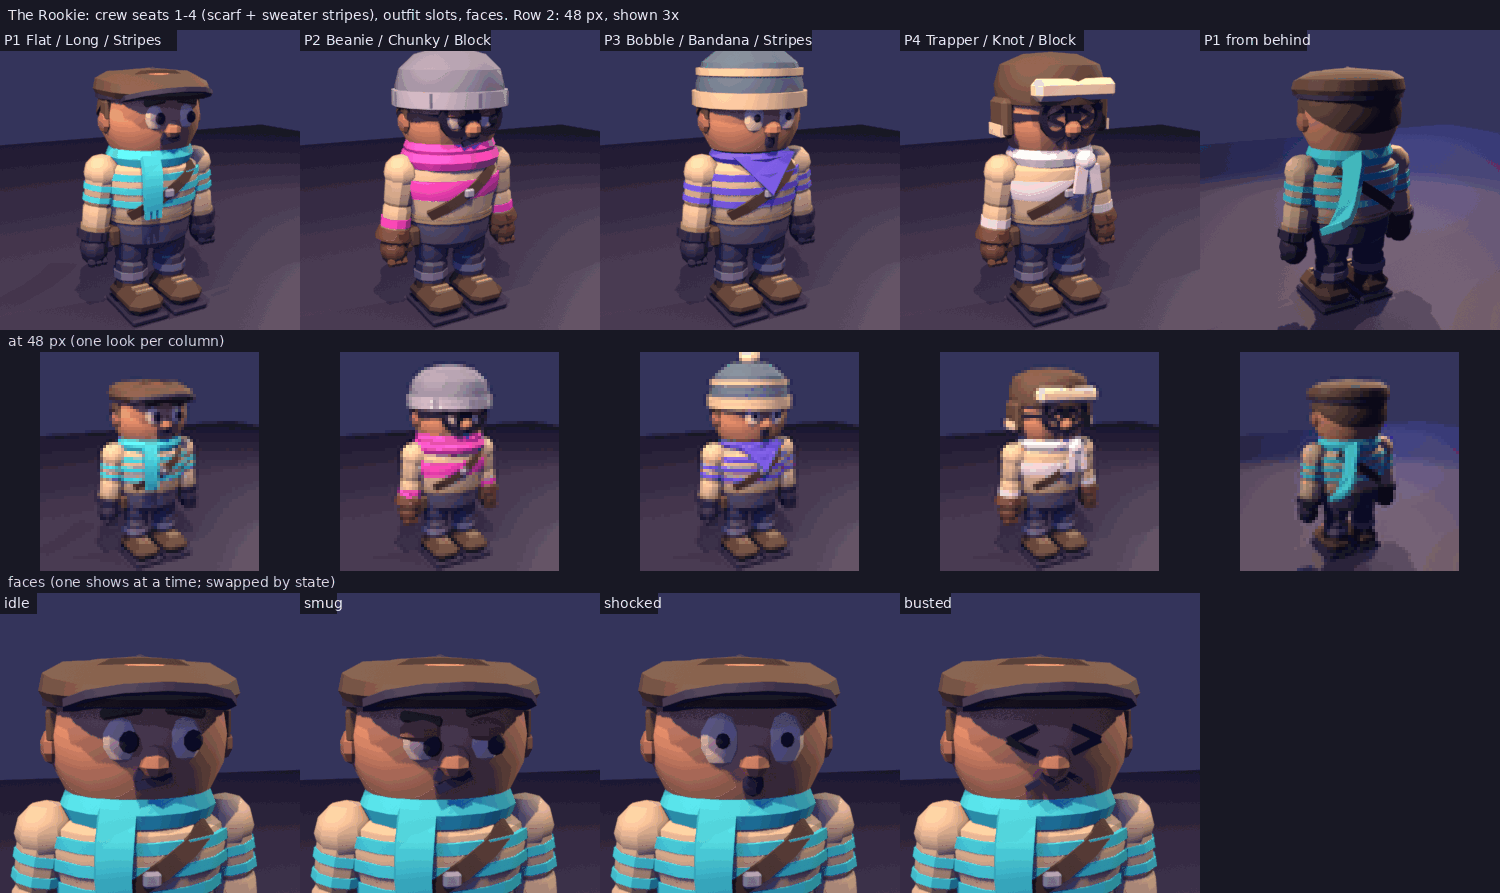
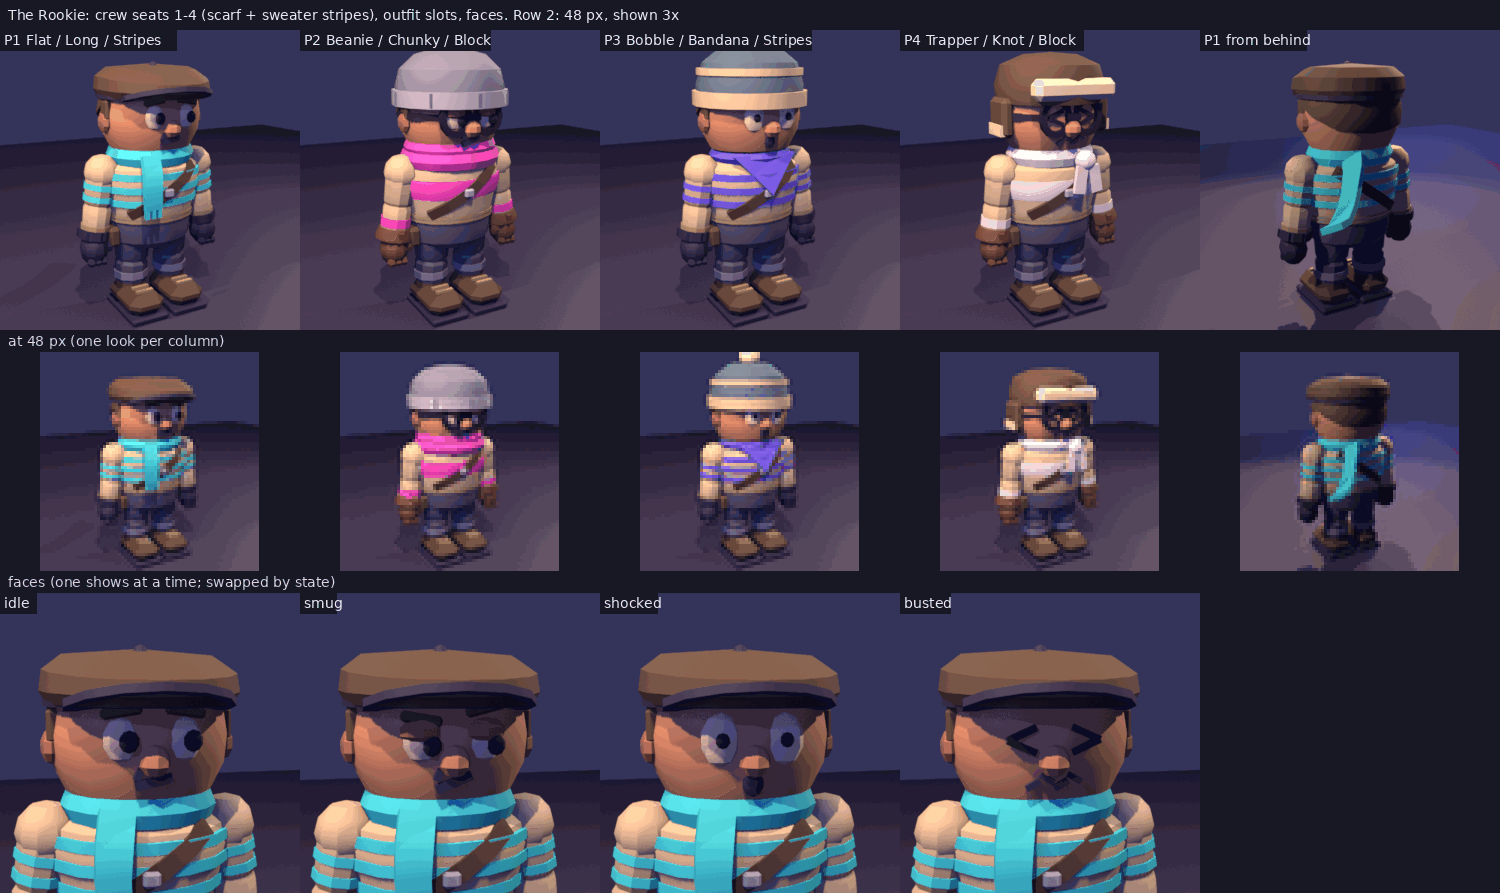
Docs: PROJECT_STATE, DATA.md outfit field, STYLE_BIBLE 12.1 the Rookie; outfit sheet re-rendered
Claude-Session: https://claude.ai/code/session_01QMSuPfsKra1qjqHBWxnEoR

diff --git a/PROJECT_STATE.md b/PROJECT_STATE.md
@@ -1,6 +1,6 @@
 # PROJECT_STATE
 
-_Last updated: 2026-11-12 (tech polish track)_
+_Last updated: 2026-11-13 (CH track: the Rookie)_
 
 ## Done (v0.1 prototype)
 - Rojo project, greybox bank level built from code (street, van, lobby, vault door, blue/red plates, laser grid, gold table, diamond pedestal).
@@ -282,3 +282,12 @@ _Last updated: 2026-11-12 (tech polish track)_
 
 ## 2026-11-12 (late): owner pivot, approved in full: docs/PLAN_FIRST_PERSON.md
 - Players become "the Rookie" (an original Steam-quality robber character, crew colour + outfit slots), not their Roblox avatar; clones are copies of your Rookie. First person by default with visible hands, look-to-interact and pick-up into the hands. A Phasmophobia / RV-There-Yet lobby (spawn in first person in the hideout, pick a van, SOLO or CREW, level on the job board, GO from the van). Northern lights in the sky. Also approved: move the L1 cash into the window's view, warm the Toy Shop walls. Waves A-D in the plan; the owner is asleep, so work non-stop.
+
+## 2026-11-13: the Rookie, the player character (PLAN_FIRST_PERSON "CH", wave A; CH track)
+- **Art** (`assets/blender/rookie.py`, all gates pass): an original chunky robber, 4.62 studs to the head top (Gus 6.5), big head, cream Breton sweater, dark trousers, chunky boots and gloves, side-eye. R15-compatible: 15 rigid parts `Rookie_<R15 name>`, each pivot at its R15 joint (manifest `joint`). Four kit groups uploaded with the kit uploader (Open Cloud Model, moderation Approved): **Rookie 82283617669885** (body + idle face, 3,632 tris), **Rookie_Faces 115892166045394** (smug, shocked, busted), **Rookie_Outfits 88500778373104** (cap x4 Flat/Beanie/Bobble/Trapper, scarf x4 Long/Chunky/Bandana/Knot, sweater x2 Stripes/Block, gloves x2 Knit/Leather cuffs, mask Eye; pivot = attach point, seat-checked on the body in the spec), **Rookie_Viewmodel 122428778963718** (first-person forearms + knit gloves). Crew pieces (scarf, stripes) and gloves use the Tint White cell (no atlas) and take MeshPart.Color at runtime. Renders: `docs/art/turntables/Rookie*.png` (gate sheets) and `docs/art/rookie_sheet.png` (`python3 tools/blender/rookie_sheet.py`: four crew colours and outfits, the back, **row 2 at 48 px**, the four faces). STYLE_BIBLE §12.1.
+- **Data:** `Shared/Heist/RookieData` (generated from the manifest by `python3 tools/rookie_data.py`; `--check` and the unit spec catch a stale one), `Shared/Heist/Outfit` (pure: defaults, unlocks by stars or trophy, `canWear`, `repair`, keys, pieces), `Config.Rookie` (slots, OUTFIT ids and unlock rules, glove colours, faces, portrait). Profile: additive `outfit` field (Schema, repaired on load); changed through the existing **`Data.Equip`** (an outfit slot + an outfit id, `Outfit.canWear`); published as the player attribute `Outfit`. No new remote. DATA.md updated.
+- **Every player is a Rookie** (`server/Heist/Rookie`, `server/Heist/Characters`): the kit meshes can't ride in the Rojo place file, so the server builds the R15 Rookie from the kit at runtime, sets it ONCE as `StarterPlayer.StarterCharacter` (never swapped per player: the vault warns runtime swaps cause spawn bugs), with `CharacterAutoLoads` off until then (init.server sets it first thing) and `LoadCharacterAppearance` off; it spawns everyone with `LoadCharacterAsync` (keeps the engine's R15 Animate, emotes, Health, camera, ownership: a manual `player.Character =` would lose the Animate insertion) and respawns after deaths. Each character is dressed on CharacterAdded in its outfit and crew colour (seat hue; HeistService calls `Characters.setSeat` from the garage push and heist start) and re-dressed live on an outfit change. A pre-service avatar character is respawned as a Rookie. No kit after 20 s: a block Rookie (same rig). Faces: bank -> smug, zap -> shocked, bust -> busted (HeistInstance face hook, cosmetic).
+- **ReplicatedStorage.CharacterKit** (for the FP track): `Rookie` (template), `Rookie_Viewmodel` (**LeftArm, RightArm**, anchored, no collision or shadow, each with `GripL` / `GripR` at the palm and an `Elbow` attachment at its pivot), `Pieces` (every Rookie kit piece).
+- **Clones are copies of your Rookie:** `Avatars.buildRookie` builds the template in the owner's outfit (kinematic AnimationConstraint joints, like 2026 avatar rigs), rebuilt when the outfit changes (EchoView retires a pool whose template changed). Joint gate, strip, CloneHealth, fill/Highlight, glow, pills, LOD and poses unchanged; `Rigs` tints only the crew pieces (the outfit keeps its colours), keeps hidden faces hidden and follows the pose with the face (`Config.Rookie.POSE_FACE`). Crew cards (Hud/Deck) show a **Rookie portrait** (ViewportFrame of your template's head and shoulders, `Common.portrait`) instead of `GetUserThumbnailAsync`; the Line-up already copies the live (Rookie) characters.
+- **Tests:** unit `HeistOutfit` (8: defaults, unlocks, canWear, repair, keys, pieces, RookieData vs manifest and the R15 rig). Engine (Saved v51, this track): `engine_smoke` **0 failures** (new section 10: CharacterKit published, viewmodel grips, template and StarterCharacter R15 with 15 joints and HipHeight 2, boots on the floor, a joining fake player's character dressed in outfit + seat-2 hue, welded pieces, one face); `clone_engine` **0 failures** (four Rookie outfits replace the three Roblox descriptions: outfit applied, gloves, one face, crew pieces in the owner hue with the cap untinted, plus every old check; the upload spike now animates the Rookie's Motor6D rig: hand 1.92 studs); `kit_engine` 0 failed (145 pieces); `client_engine` 46/0; `perf_engine` 1 failure = the known LightingStyle-at-boot assert (waits for World's `Technology` line). Local: unit 454, sim 225, compile, stylua, selene x2, pure, LihFolk scan 0, 4 rojo builds + place_check 0, clips, hud_layout 1,435/0, glyph, ui_kit 103/0, `build_asset.py --all` ALL GATES PASS.
+- **Open:** never seen in Studio or on a phone (the spawn path, the Avatar Joint Upgrade converting the StarterCharacter's Motor6Ds, walk feel with the short legs, the FP camera at the Rookie's eye height ~3.8, the portrait framing); the first-person arms show the default knit gloves only (no per-outfit viewmodel yet); no wardrobe UI yet (LB track: the lobby wardrobe calls `Data.Equip(slot, id)`); the scarf tail is static (no cloth); emotes from the Roblox emote wheel need a Studio check with `LoadCharacterAppearance` off; owner sign-off on the look (rookie_sheet.png).

diff --git a/docs/DATA.md b/docs/DATA.md
@@ -50,6 +50,7 @@ Never rename `STORE_NAME` or `KEY_PREFIX` after launch. `Keys.isWritable` makes 
 | `cosmetics.owned[id]`, `cosmetics.equipped[slot]` | `true`, id | Slots: `cloneStyle`, `cloneHat`, `vanPaint`, `trail`. Defaults are owned implicitly |
 | `daily` | `{ lastClearDay, streak, bestStreak, stars, haulDay, haulBest, haulClones, haulTimeMs }` | Daily vault (UTC day numbers) and the "biggest haul today" entry with its tie-breaks (clones, then time) |
 | `settings` | `{ reducedMotion, relaxed, colourBlindGlyphs, classicCamera, musicVolume, sfxVolume, shake, captions, guardPath, seenStarHaul, seenStarCrew, seenStarClean }` | Booleans, plus the numbers in `Config.Data.SETTING_NUMBERS` (`musicVolume`, `sfxVolume`: 0..1, default 1). `classicCamera`: the camera A/B pick (off = diorama). `shake`, `captions`, `guardPath` default on. `seenStar*`: the job sheet has shown that star's reason and the star was earned (WALKTHROUGH S7). All additive, no migration: `sanitize` fills a missing key and repairs a wrong type or an out-of-range number to its default (`Schema.validSetting`). `Data.SetSetting(key, value)` accepts a known key and a boolean or a finite number, then checks the value against that key's own type and range (`BadValue` otherwise). Each is published as the player attribute `Setting_<Key>` (`Schema.settingAttribute`) |
+| `outfit` | `{ cap, scarf, sweater, gloves, mask }` -> id | The Rookie's outfit (PLAN_FIRST_PERSON "CH"; ids in `Config.Rookie.OUTFIT`, default `Config.Rookie.DEFAULT_OUTFIT`). Additive, no migration: `sanitize` drops unknown slots and repairs a junk, wrong-slot or locked id to the slot default (`Heist/Outfit.repair`). Unlocks: free ids, a star total (medal + daily stars) or a trophy (`OUTFIT[id].unlock`). Changed through the existing `Data.Equip(slot, id)` (an outfit slot + an outfit id, checked by `Outfit.canWear`: `BadSlot`, `UnknownItem`, `WrongSlot`, `Locked`). Published as the player attribute `Outfit` (`Outfit.key`: the five ids joined by `\|`), which `Heist/Characters` dresses the character from |
 | `ftueStep`, `firstHeistDone`, `stats = { heists, clears }` | numbers, boolean | Onboarding and counters |
 
 Stars are stored as a `Currency` balance so the UI gets a `Stars` attribute. The balance is a mirror: it is recomputed from the medals plus `daily.stars` after every award and on load, and it is never spent. Cash and Candy Canes are normal balances. None of them can be bought with Robux (`paid = false`).
@@ -112,7 +113,7 @@ Player attributes for the UI: `Cash`, `Stars`, `CandyCanes` (Currency), `Setting
 
 ## Client remotes (`Net`: rate limit, then argument count and types, then handler)
 
-`Data.Snapshot()`, `Data.SetSetting(key, bool)`, `Data.Equip(slot, cosmeticId)`, `Data.Buy(itemId)` (Cash or Candy-Cane items and trophies; the price comes from server config), `Data.BuyBagLevel()`, `Data.SetShelf({ trophyId })`, and the push channel `Data.Changed(snapshot)`. From the library: `Shop.PromptProduct(productKey)`, which runs the prompt-time checks. `Shop.Buy` and `Shop.PromptPass` exist but have no items or passes configured. All remotes live in `ReplicatedStorage/LihFolkRemotes`.
+`Data.Snapshot()`, `Data.SetSetting(key, bool)`, `Data.Equip(slot, cosmeticId)` (also an outfit slot + outfit id, see `outfit`), `Data.Buy(itemId)` (Cash or Candy-Cane items and trophies; the price comes from server config), `Data.BuyBagLevel()`, `Data.SetShelf({ trophyId })`, and the push channel `Data.Changed(snapshot)`. From the library: `Shop.PromptProduct(productKey)`, which runs the prompt-time checks. `Shop.Buy` and `Shop.PromptPass` exist but have no items or passes configured. All remotes live in `ReplicatedStorage/LihFolkRemotes`.
 
 These are menu intents with no say over outcomes in a heist. CLAUDE.md still says "clients only send `RequestRewind`"; MASTERPLAN §8.8 says that rule widens when this code lands, so CLAUDE.md needs updating.
 

diff --git a/docs/STYLE_BIBLE.md b/docs/STYLE_BIBLE.md
@@ -344,6 +344,20 @@ Each bookmark is shot 3 times: **PC Quality 10**, **phone Automatic**, **phone q
 | Colours | `char` cells + ink, steel, marble (rule P3). Never Torch Amber on the mesh: the amber is the code-drawn cone, the lens is a Neon part |
 | Swaps | `Gus_SantaHat` (Christmas layer) shares `HatAttach` with `Gus_Cap`; show one |
 
+### 12.1 The Rookie (the player character; PLAN_FIRST_PERSON "CH", 2026-11-13)
+
+| Rule | Number |
+|---|---|
+| Rig | R15-compatible rigid body (`assets/blender/rookie.py`): 15 parts named `Rookie_<R15 name>` (the game drops the prefix), each pivot at its R15 joint; the game adds Motor6Ds (player) or kinematic AnimationConstraints (clone templates) and the R15 rig attachments, so the default Animate, CloneClips and emotes play |
+| Root | HumanoidRootPart 2 x 2 x 1, centre **3** studs up (HipHeight 2 = the sim's rootHeight), joined to the hip centre at 1.62 |
+| Budget | ≤ **5,000** tris for the body (v1: 3,632 incl. the idle face); faces 96-496, outfit pieces 80-484 each, first-person arm 460 |
+| Height | **4.62** studs to the top of the head, ~4.9-5.2 with a cap (Gus 6.5). Head 2.1 wide = 45 % of the height: the chibi read |
+| 48 px read | `docs/art/rookie_sheet.png` row 2: cap on a big skin-tone head, cream sweater with crew-colour stripes (luma 0.79 vs ground ≤ 0.22), crew-colour scarf, dark trousers, chunky brown boots, dark gloves. Gus reads as the light blue grown-up; the Rookie as the cream-and-crew kid |
+| Colours | Body: `char` cells + ink, steel, marble (rule P3). Runtime tint (Tint White cell, no atlas): scarf, sweater stripes / block, cuffs = **crew colour** (seat hue, Palette); hands + glove cuffs = glove colour (`Config.Rookie.GLOVES`) |
+| Outfit slots | cap 4 (Flat, Beanie, Bobble, Trapper), scarf 4 (Long, Chunky, Bandana, Knot), sweater 2 (Stripes, Block), gloves 2 (Knit, Leather), mask 2 (none, Eye). Pieces weld by pivot to their body part (manifest `attach`) and are seat-checked against the body in the spec (A16) |
+| Faces | 4 mesh faces on the head (idle side-eye, smug half-lid, shocked, busted > <); one shows (Transparency), swapped by state |
+| First person | `Rookie_VM_LeftArm` / `_RightArm`: sleeve + knit glove, pivot = elbow, grips at the palm (`GripL` / `GripR`) |
+
 ## 13. Christmas dressing layer (Dec 3 - Jan 4)
 
 | Rule | Number |
